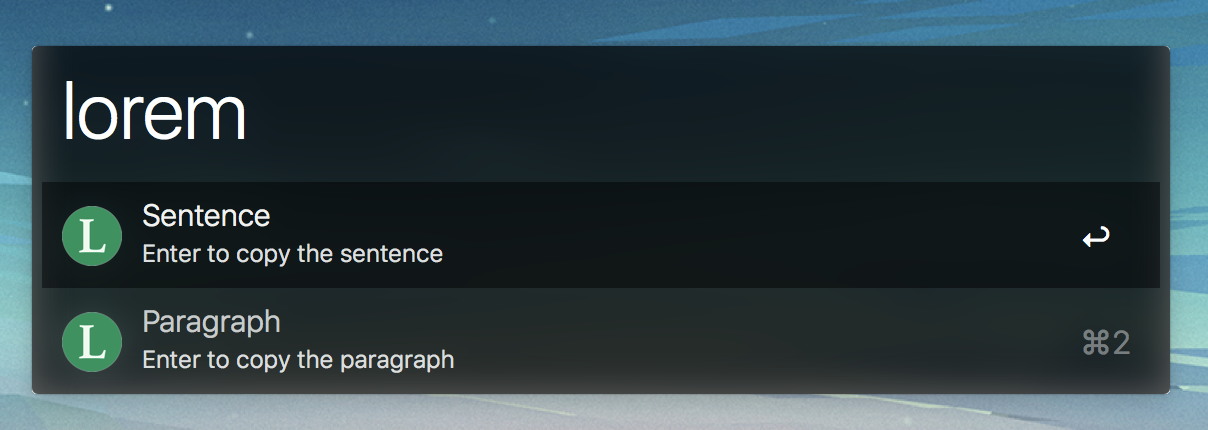
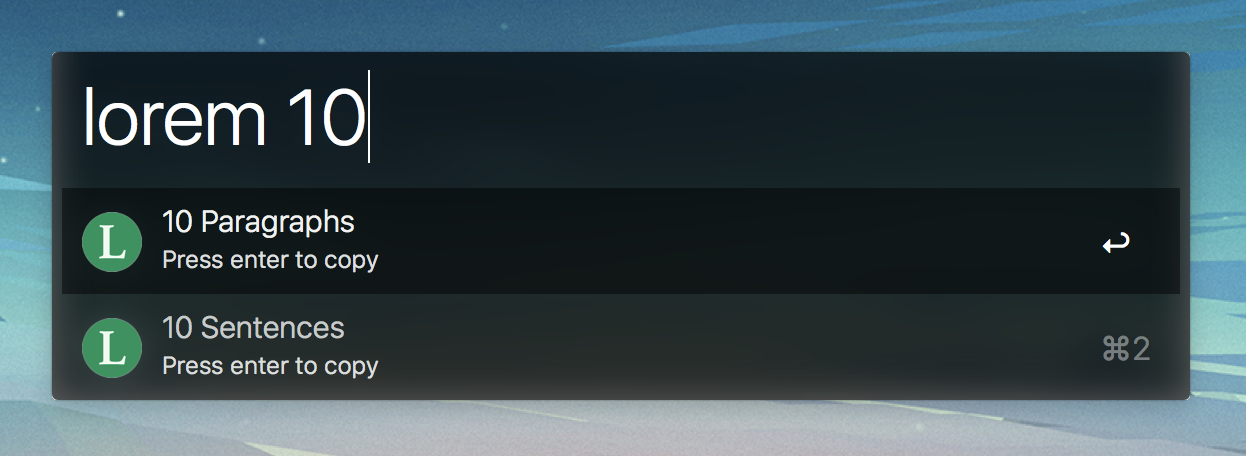
Adding an optional count parameter.

diff --git a/index.js b/index.js
@@ -3,27 +3,42 @@
 const alfy = require('alfy');
 const lorem = require('lorem-ipsum');
 
-const sentence = lorem({
-  units: 'sentences',
-  count: 1,
-  sentenceLowerBound: 5,
-  sentenceUpperBound: 10
-});
-const paragraph = lorem({
-  units: 'paragraphs',
-  paragraphLowerBound: 3,
-  paragraphUpperBound: 6
-});
+const sentenceLowerBound = 5;
+const sentenceUpperBound = 10;
+const paragraphLowerBound = 3;
+const paragraphUpperBound = 6;
+
+function generateSentenceOutput(count) {
+  return {
+    title: count > 1 ? `${count} Sentences` : 'Sentence',
+    subtitle: 'Press enter to copy',
+    arg: lorem({
+      units: 'sentences',
+      count,
+      sentenceLowerBound,
+      sentenceUpperBound
+    })
+  };
+}
+
+function generateParagraphOutput(count) {
+  return {
+    title: count > 1 ? `${count} Paragraphs` : 'Paragraph',
+    subtitle: 'Press enter to copy',
+    arg: lorem({
+      units: 'paragraphs',
+      count,
+      sentenceLowerBound,
+      sentenceUpperBound,
+      paragraphLowerBound,
+      paragraphUpperBound
+    })
+  };
+}
+
+const count = parseInt(alfy.input) || 1;
 
 alfy.output([
-  {
-    title: 'Sentence',
-    subtitle: 'Enter to copy the sentence',
-    arg: sentence
-  },
-  {
-    title: 'Paragraph',
-    subtitle: 'Enter to copy the paragraph',
-    arg: paragraph
-  }
+  generateParagraphOutput(count),
+  generateSentenceOutput(count)
 ]);

diff --git a/readme.md b/readme.md
@@ -16,6 +16,8 @@ $ npm install --global alfred-loremipsum
 
 In Alfred, type `lorem`, <kbd>Enter</kbd>, and your query.
 
+Add an optional number to grab more than one paragraph or sentence.
+
 ![Screenshot](screenshot.png)
 
 ## License
